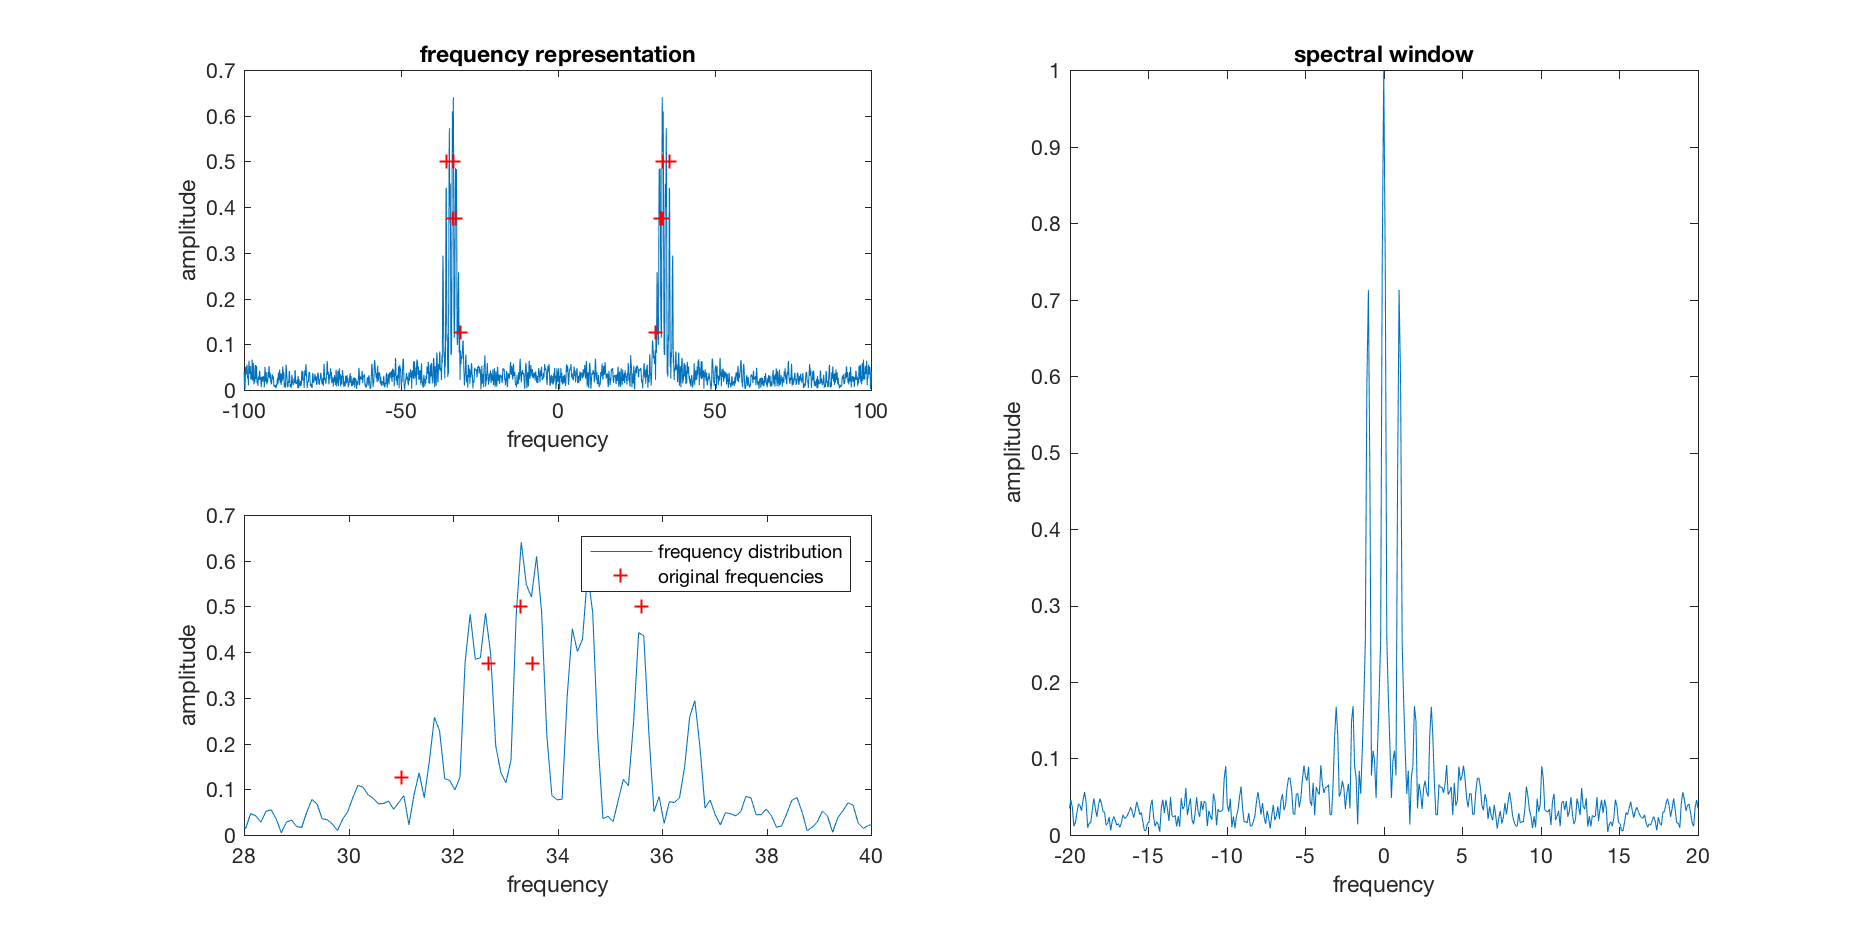
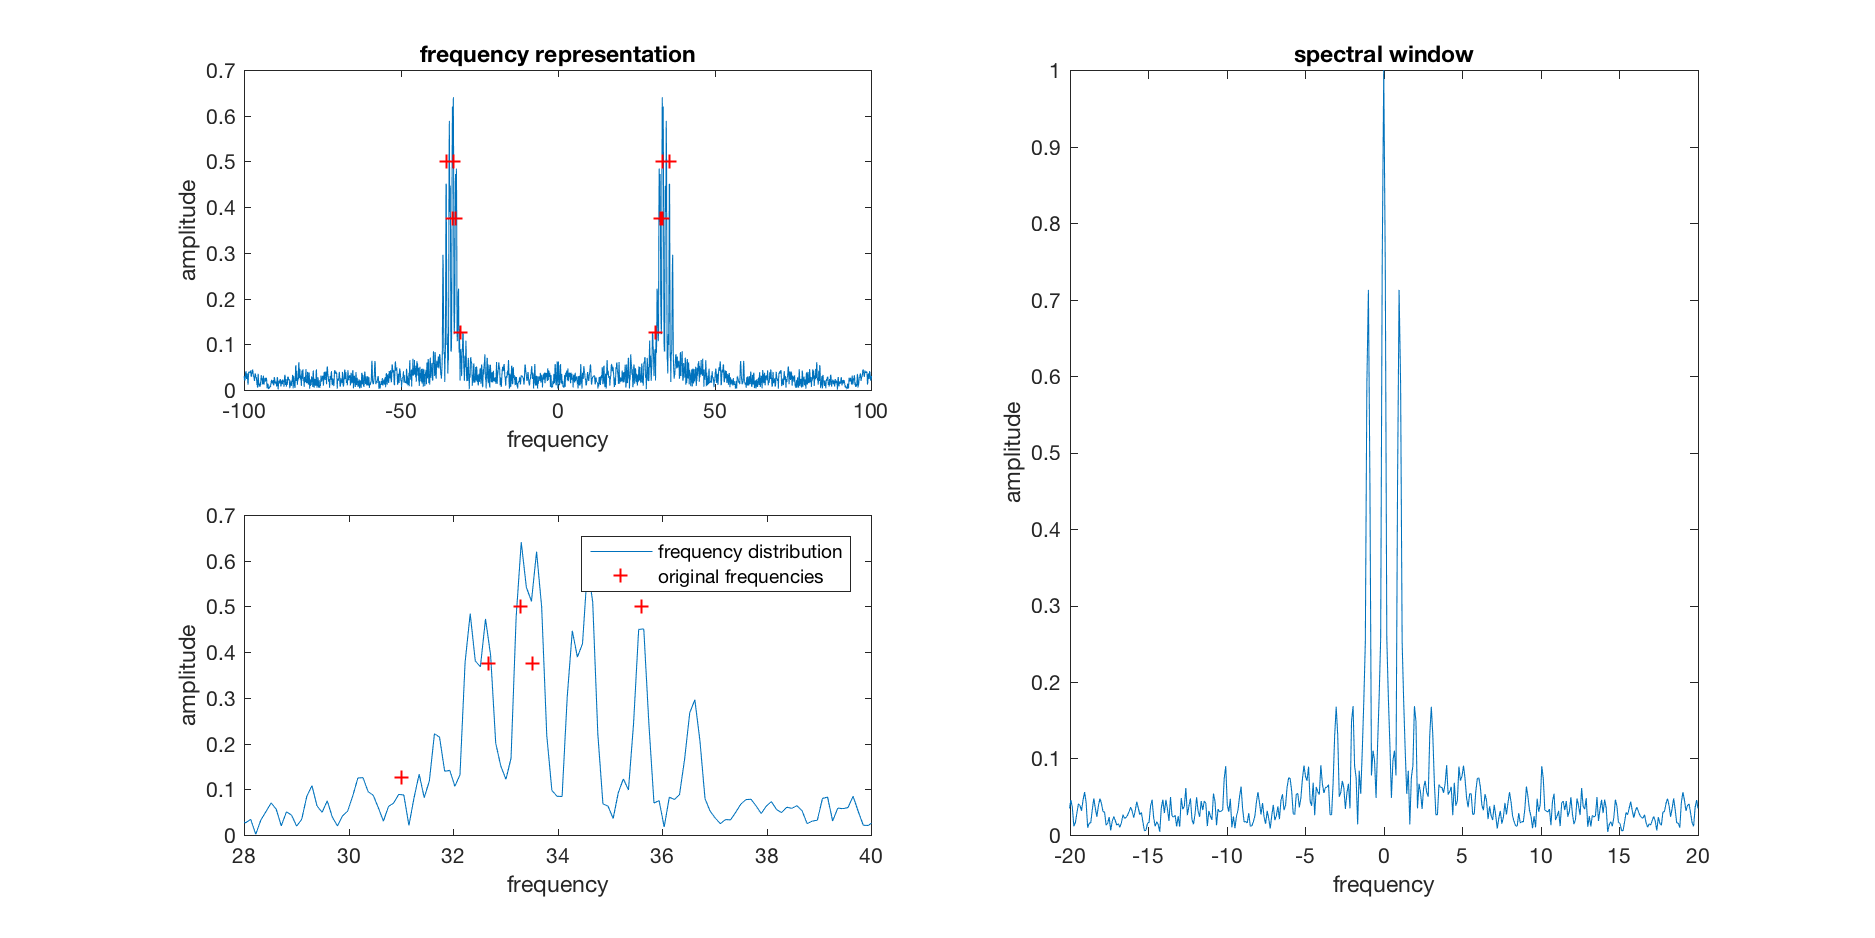
new data set. now at least 5 peaks per algorithm indicated and saved

diff --git a/code/Lab2.m b/code/Lab2.m
@@ -92,7 +92,7 @@ while T > tau
     T = (norm(r_n)^2)/(sigma^2);
 end
 MethodOneIterations = size(Gamma0);
-[MaxMP,MaxIdxMP] = findpeaks(abs(a),'threshold',0.13);
+[MaxMP,MaxIdxMP] = findpeaks(abs(a),'MinPeakHeight',0.1);
 
 figure
 subplot(2,1,1)
@@ -149,7 +149,7 @@ for ind=1:length(Gamma0)
    a_plot(Gamma0(ind)) = a(ind);
 end
 MethodTwoIterations = size(Gamma0);
-[MaxOMP,MaxIdxOMP] = findpeaks(abs(a_plot),'threshold',0.1);
+[MaxOMP,MaxIdxOMP] = findpeaks(abs(a_plot),'MinPeakHeight',0.1);
 
 figure
 subplot(2,1,1)
@@ -276,11 +276,11 @@ saveas(gcf,'../images/convex.png')
 % Save detected data to file:
 fileID = fopen('../images/img_data.txt','w');
 fprintf(fileID, 'frequency ; amplitude\n ');
-fprintf(fileID, '# Matching Pursuit, %d iterations\n', length(MethodOneIterations(1)));
+fprintf(fileID, '# Matching Pursuit, %d iterations\n', (MethodOneIterations(2)));
 fprintf(fileID, [repmat(' %0.3f ; %0.3f \n', 1, length(MaxIdxMP))] , [ freq(MaxIdxMP).' MaxMP].');
-fprintf(fileID, '# Orthogonal Matching Pursuit, %d iterations\n', length(MethodTwoIterations(2)));
+fprintf(fileID, '# Orthogonal Matching Pursuit, %d iterations\n', (MethodTwoIterations(2)));
 fprintf(fileID, [repmat(' %0.3f ; %0.3f \n', 1, length(MaxIdxOMP))] , [ freq(MaxIdxOMP).' MaxOMP].');
-fprintf(fileID, '# Orthogonal Least Square, %d iterations\n', length(MethodThrIterations(1)));
+fprintf(fileID, '# Orthogonal Least Square, %d iterations\n', (MethodThrIterations(1)));
 fprintf(fileID, [repmat(' %0.3f ; %0.3f \n', 1, length(MaxIdxOLS))] , [ freq(MaxIdxOLS).' MaxOLS].');
 fprintf(fileID, '# Convex Relaxation\n');
 fprintf(fileID, [repmat(' %0.3f ; %0.3f \n', 1, length(MaxIdxSparse))] , [ freq(MaxIdxSparse).' MaxSparse].');
